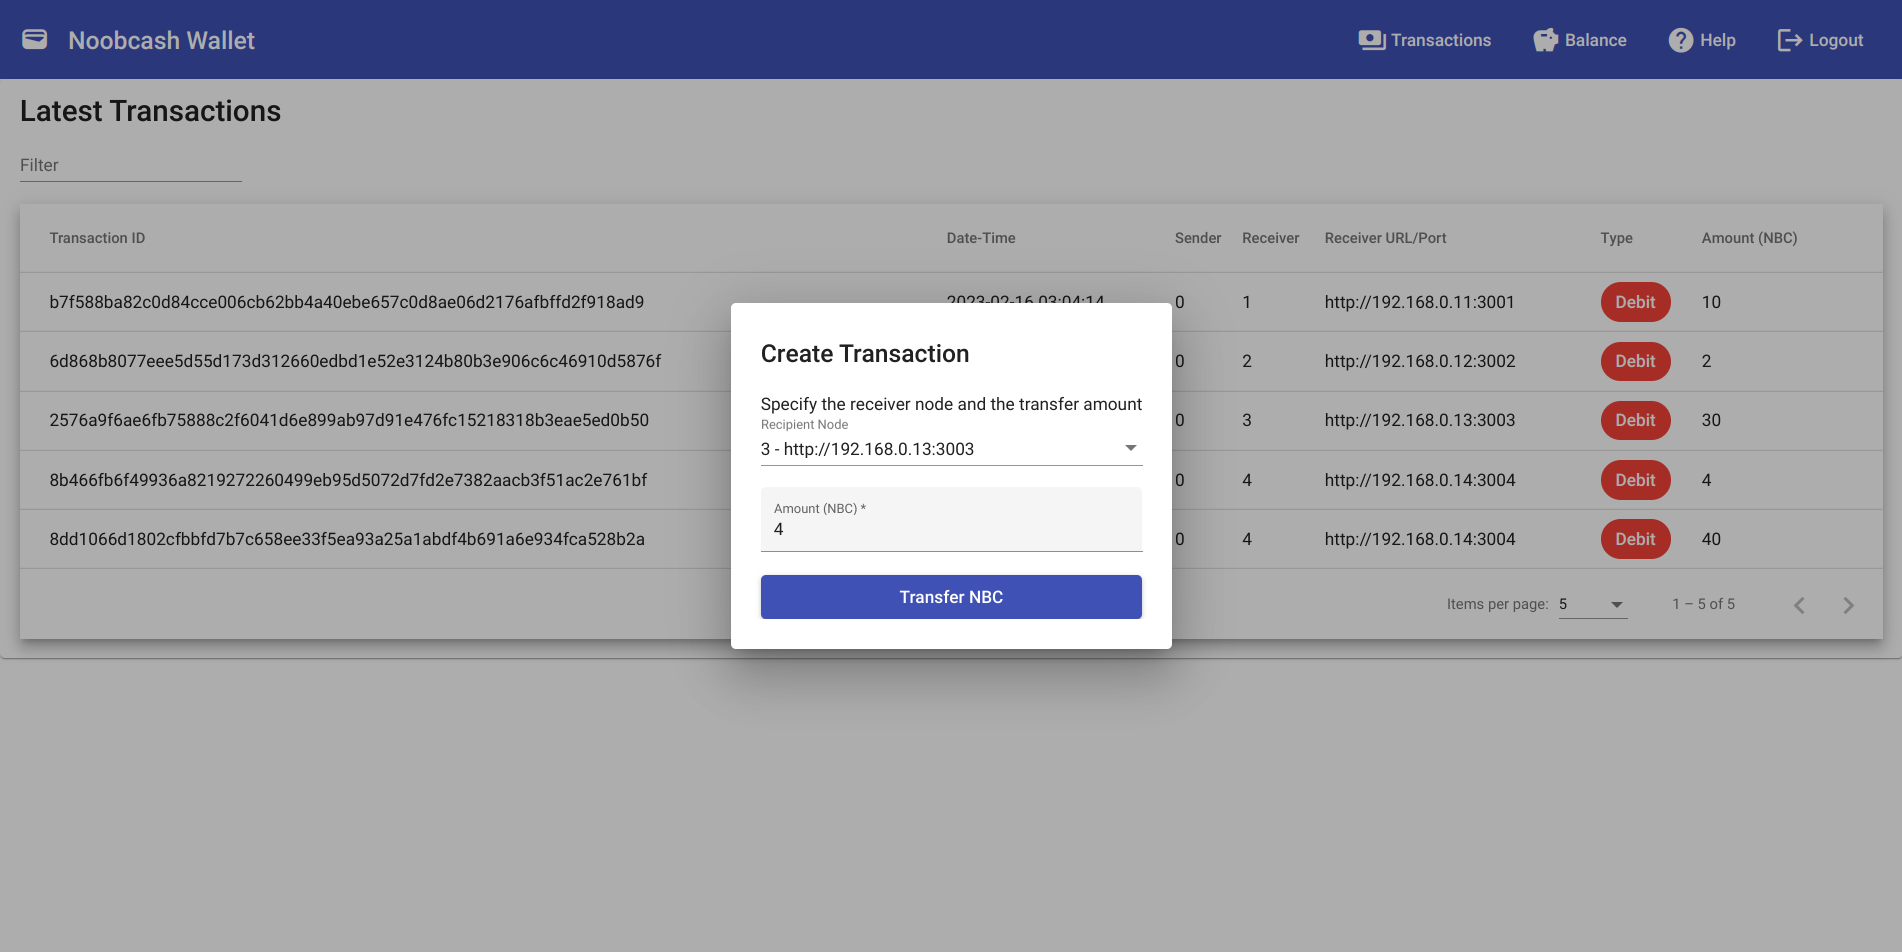
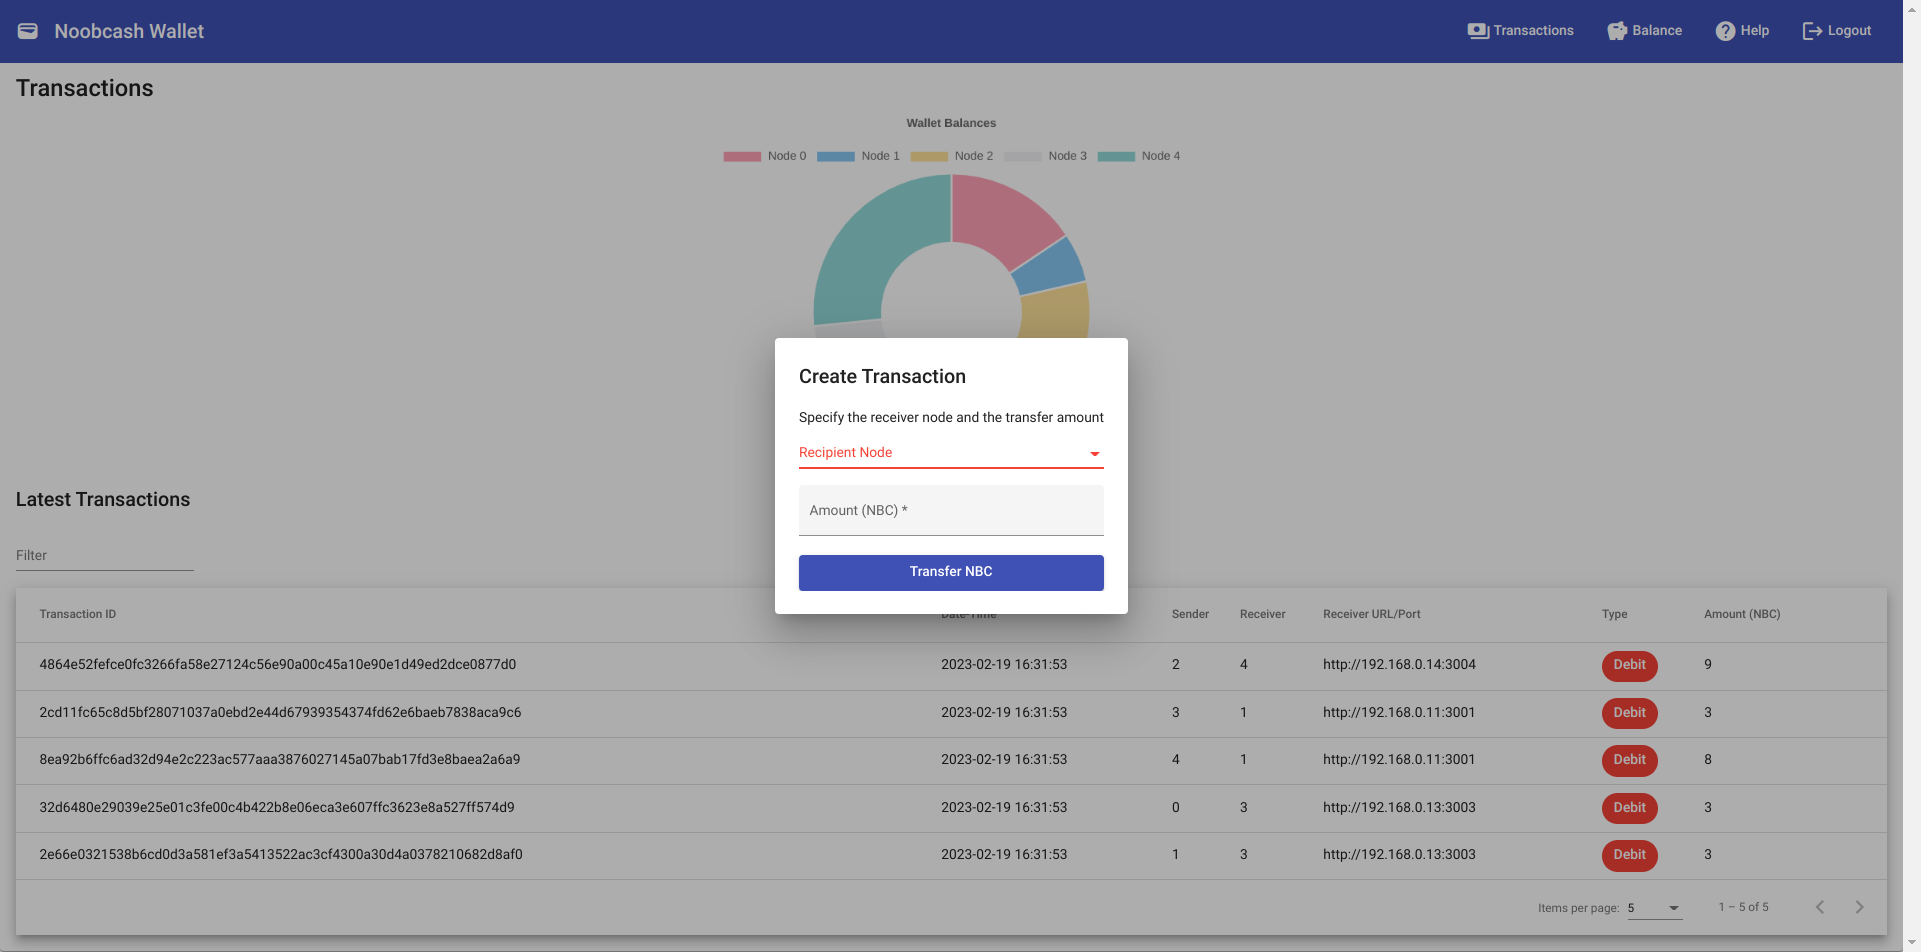
Minor fixes

diff --git a/backend/src/index.ts b/backend/src/index.ts
@@ -26,15 +26,18 @@ app.use(express.json());
 
 // Connect node to ring (only bootstrap node exposes this endpoint)
 if (node instanceof BootstrapNode) {
-    app.post('/node', async (req: Request<any, any, NodeDto>, res: Response) => {
-        try {
-            await node.insertNodeToRing(req.body.node);
-            res.status(200).json({ message: 'OK' });
-        } catch (e) {
-            const error = e as NoobcashException;
-            res.status(error.code).json({ message: error.message });
-        }
-    });
+    app.post(
+        '/node',
+        async (req: Request<any, any, NodeDto>, res: Response<MessageResponseDto>) => {
+            try {
+                await node.insertNodeToRing(req.body.node);
+                res.status(200).json({ message: 'OK' });
+            } catch (e) {
+                const error = e as NoobcashException;
+                res.status(error.code).json({ message: error.message });
+            }
+        },
+    );
 }
 
 // Get node group information
@@ -43,11 +46,11 @@ app.get('/ring', (_: any, res: Response<RingDto>) => {
 });
 
 // Update info of all nodes
-app.post('/ring', (req: Request<any, any, RingDto>, res: Response) => {
+app.post('/ring', (req: Request<any, any, RingDto>, res: Response<MessageResponseDto>) => {
     try {
         node.setRing(req.body.ring);
         logger.info(`Node ${node.ring[node.ring.length - 1].index} connected to ring!`);
-        res.status(200).send('OK');
+        res.status(200).json({ message: 'OK' });
     } catch (e) {
         const error = e as NoobcashException;
         logger.error(error.message);
@@ -67,47 +70,24 @@ app.get('/blockchain', (_, res: Response<BlockchainDto | MessageResponseDto>) =>
     }
 });
 
-// Get Blockchain and UTXO's
-app.get('/blockchain_test', (_, res: Response) => {
-    try {
-        const { blockchain } = node.getBlockchain();
-
-        const bl = blockchain.blocks.map(block => {
-            return {
-                block_idx: block.index,
-                transactions: block.transactions.map(t => {
-                    return {
-                        sender: node.ring.find(node => node.publicKey === t.senderAddress)?.index,
-                        recv: node.ring.find(node => node.publicKey === t.receiverAddress)?.index,
-                        amount: t.amount,
-                        timestamp: t.timestamp,
-                    };
-                }),
-            };
-        });
-
-        res.status(200).json({ bl });
-    } catch (e) {
-        const error = e as Error;
-        res.status(400).json({ message: error.message });
-    }
-});
-
 // Set the node state
-app.post('/blockchain', (req: Request<any, any, BlockchainDto>, res: Response) => {
-    try {
-        const { blockchain, currentBlock, utxos, pendingTransactions } = req.body;
+app.post(
+    '/blockchain',
+    (req: Request<any, any, BlockchainDto>, res: Response<MessageResponseDto>) => {
+        try {
+            const { blockchain, currentBlock, utxos, pendingTransactions } = req.body;
 
-        node.setState(blockchain, currentBlock, utxos, pendingTransactions);
-        res.status(200).json({ message: 'OK' });
-    } catch (e) {
-        const error = e as NoobcashException;
-        res.status(error.code).json({ message: error.message });
-    }
-});
+            node.setState(blockchain, currentBlock, utxos, pendingTransactions);
+            res.status(200).json({ message: 'OK' });
+        } catch (e) {
+            const error = e as NoobcashException;
+            res.status(error.code).json({ message: error.message });
+        }
+    },
+);
 
 // Impose latest block to all nodes, after successful mining
-app.post('/block', async (req: Request<any, any, BlockDto>, res: Response) => {
+app.post('/block', async (req: Request<any, any, BlockDto>, res: Response<MessageResponseDto>) => {
     try {
         await node.postBlock(req.body.block, req.body.stateChecksum);
         res.status(200).json({ message: 'OK' });
@@ -131,7 +111,10 @@ app.get('/transaction', (_, res: Response<LatestBlockTransactionsDto | MessageRe
 // Create new transaction
 app.post(
     '/transaction',
-    async (req: Request<any, any, { recipientId: number; amount: number }>, res: Response) => {
+    async (
+        req: Request<any, any, { recipientId: number; amount: number }>,
+        res: Response<MessageResponseDto>,
+    ) => {
         try {
             await node.postTransaction(req.body.recipientId, req.body.amount);
             res.status(200).json({ message: 'OK' });
@@ -161,7 +144,7 @@ app.get('/balance', (_, res: Response<BalanceDto>) => {
 
 // Get all node balances
 app.get('/balances', (_, res) => {
-    res.status(200).json({ balances: node.getAllWalletBalances() })
+    res.status(200).json({ balances: node.getAllWalletBalances() });
 });
 
 app.listen(config.port, () => logger.info(`Started listening on ${config.url}:${config.port}`));

diff --git a/test/run-all-10.js b/test/run-all-10.js
@@ -1,16 +1,16 @@
 const { exec } = require('child_process');
 
 // const nodes = [
-// 	{ INDEX: 0, URL: 'http://snf-34464.ok-kno.grnetcloud.net', PORT: 3000 },
-// 	{ INDEX: 1, URL: 'http://snf-34465.ok-kno.grnetcloud.net', PORT: 3001 },
-// 	{ INDEX: 2, URL: 'http://snf-34466.ok-kno.grnetcloud.net', PORT: 3002 },
-// 	{ INDEX: 3, URL: 'http://snf-34467.ok-kno.grnetcloud.net', PORT: 3003 },
-// 	{ INDEX: 4, URL: 'http://snf-34468.ok-kno.grnetcloud.net', PORT: 3004 },
-// 	{ INDEX: 5, URL: 'http://snf-34464.ok-kno.grnetcloud.net', PORT: 3005 },
-// 	{ INDEX: 6, URL: 'http://snf-34465.ok-kno.grnetcloud.net', PORT: 3006 },
-// 	{ INDEX: 7, URL: 'http://snf-34466.ok-kno.grnetcloud.net', PORT: 3007 },
-// 	{ INDEX: 8, URL: 'http://snf-34467.ok-kno.grnetcloud.net', PORT: 3008 },
-// 	{ INDEX: 9, URL: 'http://snf-34468.ok-kno.grnetcloud.net', PORT: 3009 }
+// 	{ INDEX: 0, URL: 'http://snf-34919.ok-kno.grnetcloud.net', PORT: 3000 },
+// 	{ INDEX: 1, URL: 'http://snf-34920.ok-kno.grnetcloud.net', PORT: 3001 },
+// 	{ INDEX: 2, URL: 'http://snf-34921.ok-kno.grnetcloud.net', PORT: 3002 },
+// 	{ INDEX: 3, URL: 'http://snf-34922.ok-kno.grnetcloud.net', PORT: 3003 },
+// 	{ INDEX: 4, URL: 'http://snf-34923.ok-kno.grnetcloud.net', PORT: 3004 },
+// 	{ INDEX: 5, URL: 'http://snf-34919.ok-kno.grnetcloud.net', PORT: 3005 },
+// 	{ INDEX: 6, URL: 'http://snf-34920.ok-kno.grnetcloud.net', PORT: 3006 },
+// 	{ INDEX: 7, URL: 'http://snf-34921.ok-kno.grnetcloud.net', PORT: 3007 },
+// 	{ INDEX: 8, URL: 'http://snf-34922.ok-kno.grnetcloud.net', PORT: 3008 },
+// 	{ INDEX: 9, URL: 'http://snf-34923.ok-kno.grnetcloud.net', PORT: 3009 }
 // ];
 
 const nodes = [

diff --git a/test/run-all-5.js b/test/run-all-5.js
@@ -1,20 +1,20 @@
 const { exec } = require('child_process');
 
-// const nodes = [
-// 	{ INDEX: 0, URL: 'http://snf-34464.ok-kno.grnetcloud.net', PORT: 3000 },
-// 	{ INDEX: 1, URL: 'http://snf-34465.ok-kno.grnetcloud.net', PORT: 3001 },
-// 	{ INDEX: 2, URL: 'http://snf-34466.ok-kno.grnetcloud.net', PORT: 3002 },
-// 	{ INDEX: 3, URL: 'http://snf-34467.ok-kno.grnetcloud.net', PORT: 3003 },
-// 	{ INDEX: 4, URL: 'http://snf-34468.ok-kno.grnetcloud.net', PORT: 3004 }
-// ];
-
 const nodes = [
-	{ INDEX: 0, URL: 'http://192.168.0.10', PORT: 3000 },
-	{ INDEX: 1, URL: 'http://192.168.0.11', PORT: 3001 },
-	{ INDEX: 2, URL: 'http://192.168.0.12', PORT: 3002 },
-	{ INDEX: 3, URL: 'http://192.168.0.13', PORT: 3003 },
-	{ INDEX: 4, URL: 'http://192.168.0.14', PORT: 3004 }
+	{ INDEX: 0, URL: 'http://snf-34919.ok-kno.grnetcloud.net', PORT: 3000 },
+	{ INDEX: 1, URL: 'http://snf-34920.ok-kno.grnetcloud.net', PORT: 3001 },
+	{ INDEX: 2, URL: 'http://snf-34921.ok-kno.grnetcloud.net', PORT: 3002 },
+	{ INDEX: 3, URL: 'http://snf-34922.ok-kno.grnetcloud.net', PORT: 3003 },
+	{ INDEX: 4, URL: 'http://snf-34923.ok-kno.grnetcloud.net', PORT: 3004 }
 ];
+
+// const nodes = [
+// 	{ INDEX: 0, URL: 'http://192.168.0.10', PORT: 3000 },
+// 	{ INDEX: 1, URL: 'http://192.168.0.11', PORT: 3001 },
+// 	{ INDEX: 2, URL: 'http://192.168.0.12', PORT: 3002 },
+// 	{ INDEX: 3, URL: 'http://192.168.0.13', PORT: 3003 },
+// 	{ INDEX: 4, URL: 'http://192.168.0.14', PORT: 3004 }
+// ];
 
 const commands = nodes.map((node) => {
 	const { INDEX, URL, PORT } = node;

diff --git a/test/balances.js b/test/balances.js
@@ -22,11 +22,11 @@ const nodes = [
 ];
 
 // const nodes = [
-// 	{ INDEX: 0, URL: 'http://snf-34464.ok-kno.grnetcloud.net', PORT: 3000 },
-// 	{ INDEX: 1, URL: 'http://snf-34465.ok-kno.grnetcloud.net', PORT: 3001 },
-// 	{ INDEX: 2, URL: 'http://snf-34466.ok-kno.grnetcloud.net', PORT: 3002 },
-// 	{ INDEX: 3, URL: 'http://snf-34467.ok-kno.grnetcloud.net', PORT: 3003 },
-// 	{ INDEX: 4, URL: 'http://snf-34468.ok-kno.grnetcloud.net', PORT: 3004 }
+// 	{ INDEX: 0, URL: 'http://snf-34919.ok-kno.grnetcloud.net', PORT: 3000 },
+// 	{ INDEX: 1, URL: 'http://snf-34920.ok-kno.grnetcloud.net', PORT: 3001 },
+// 	{ INDEX: 2, URL: 'http://snf-34921.ok-kno.grnetcloud.net', PORT: 3002 },
+// 	{ INDEX: 3, URL: 'http://snf-34922.ok-kno.grnetcloud.net', PORT: 3003 },
+// 	{ INDEX: 4, URL: 'http://snf-34923.ok-kno.grnetcloud.net', PORT: 3004 }
 // ];
 
 const requests = nodes.map(n => {

diff --git a/web-app/src/app/components/help/help.component.html b/web-app/src/app/components/help/help.component.html
@@ -1,1 +1,29 @@
-<p>help works!</p>
+<div class="wrapper">
+  <h1>Noobcash Wallet Instructions</h1>
+
+  <p>
+    The Noobcash app provides real time functionality for the Blockchain
+    network.
+  </p>
+
+  <ul>
+    <li>
+      <h2>Transactions</h2>
+      <ul>
+        <li>View the transactions of the latest mined block</li>
+        <li>View the balance of each node of the Noobcash network</li>
+        <li>
+          Create a new transaction by specifying the recipient node and the
+          transfer amount
+        </li>
+      </ul>
+    </li>
+
+    <li>
+      <h2>Balance</h2>
+      <ul>
+        <li>View the wallet balance of the logged in node</li>
+      </ul>
+    </li>
+  </ul>
+</div>

diff --git a/web-app/src/app/components/balances-chart/balances-chart.component.ts b/web-app/src/app/components/balances-chart/balances-chart.component.ts
@@ -26,7 +26,7 @@ export class BalancesChartComponent implements OnInit, OnDestroy {
     responsive: true,
     animation: { duration: 0 },
     legend: { display: true, align: 'center' },
-    title: { display: true },
+    title: { display: true, text: 'Wallet Balances' },
   };
   public doughnutChartLabels: Array<any> = [];
   public doughnutChartType: ChartType = 'doughnut';

diff --git a/web-app/src/app/components/balances-chart/balances-chart.component.html b/web-app/src/app/components/balances-chart/balances-chart.component.html
@@ -1,4 +1,4 @@
-<h2>Node Balances</h2>
+<!-- <h2>Node Balances</h2> -->
 <div style="display: flex; justify-content: center">
   <div style="width: 700px">
     <canvas

diff --git a/web-app/src/app/components/help/help.component.scss b/web-app/src/app/components/help/help.component.scss
@@ -1,0 +1,3 @@
+.wrapper {
+  padding: 1rem;
+}

diff --git a/backend/README.md b/backend/README.md
@@ -14,12 +14,12 @@ You can simulate the system on a single machine by running multiple Docker conta
     sudo docker network create --subnet=192.168.0.0/24 nb-net
     ```
 
-3. In the `node.sh` file, edit node-specific environment variables
+3. Edit node-specific environment variables
 
     ```sh
     NODE_INDEX=1 \
     NUM_NODES=5 \
-    IP=192.168.0.1${NODE_INDEX} \
+    IP=192.168.0.1${NODE_INDEX}
     URL=http://${IP} \
     PORT=300${NODE_INDEX} \
     IS_BOOTSTRAP=false \
@@ -32,6 +32,22 @@ You can simulate the system on a single machine by running multiple Docker conta
 
 4. Run the container
     ```sh
-    sudo ./node.sh
+    sudo docker run -it \
+    --net nb-net \
+    --ip ${IP} \
+    -p ${PORT}:${PORT} \
+    -e NODE_INDEX=${NODE_INDEX} \
+    -e NUM_NODES=${NUM_NODES} \
+    -e IS_BOOTSTRAP=${IS_BOOTSTRAP} \
+    -e BOOTSTRAP_URL=${BOOTSTRAP_URL} \
+    -e BOOTSTRAP_PORT=${BOOTSTRAP_PORT} \
+    -e DIFFICULTY=${DIFFICULTY} \
+    -e BLOCK_CAPACITY=${BLOCK_CAPACITY} \
+    -e PASSPHRASE=${PASSPHRASE} \
+    -e URL=${URL} \
+    -e PORT=${PORT} \
+    -v `pwd`:/app \
+    -v `pwd`/node_modules:/app/node_modules \
+    nb-backend
     ```
     Auto-reload works great for testing too!

diff --git a/README.md b/README.md
@@ -15,10 +15,10 @@ The CLI tool can perform the following commands:
 ```
 $ ./cli.sh help
 Commands:
-balance - View your wallet balance
-transaction <recipient_id> <amount> - Make a transaction to the specified recipient with the specified amount
-view - View all transactions
-help - View this help message
+balance - view your wallet balance
+transaction <recipient_id> <amount> - make a transaction to the specified recipient with the specified amount
+view - view all transactions
+help - view this help message
 ```
 
 ## Web-App
